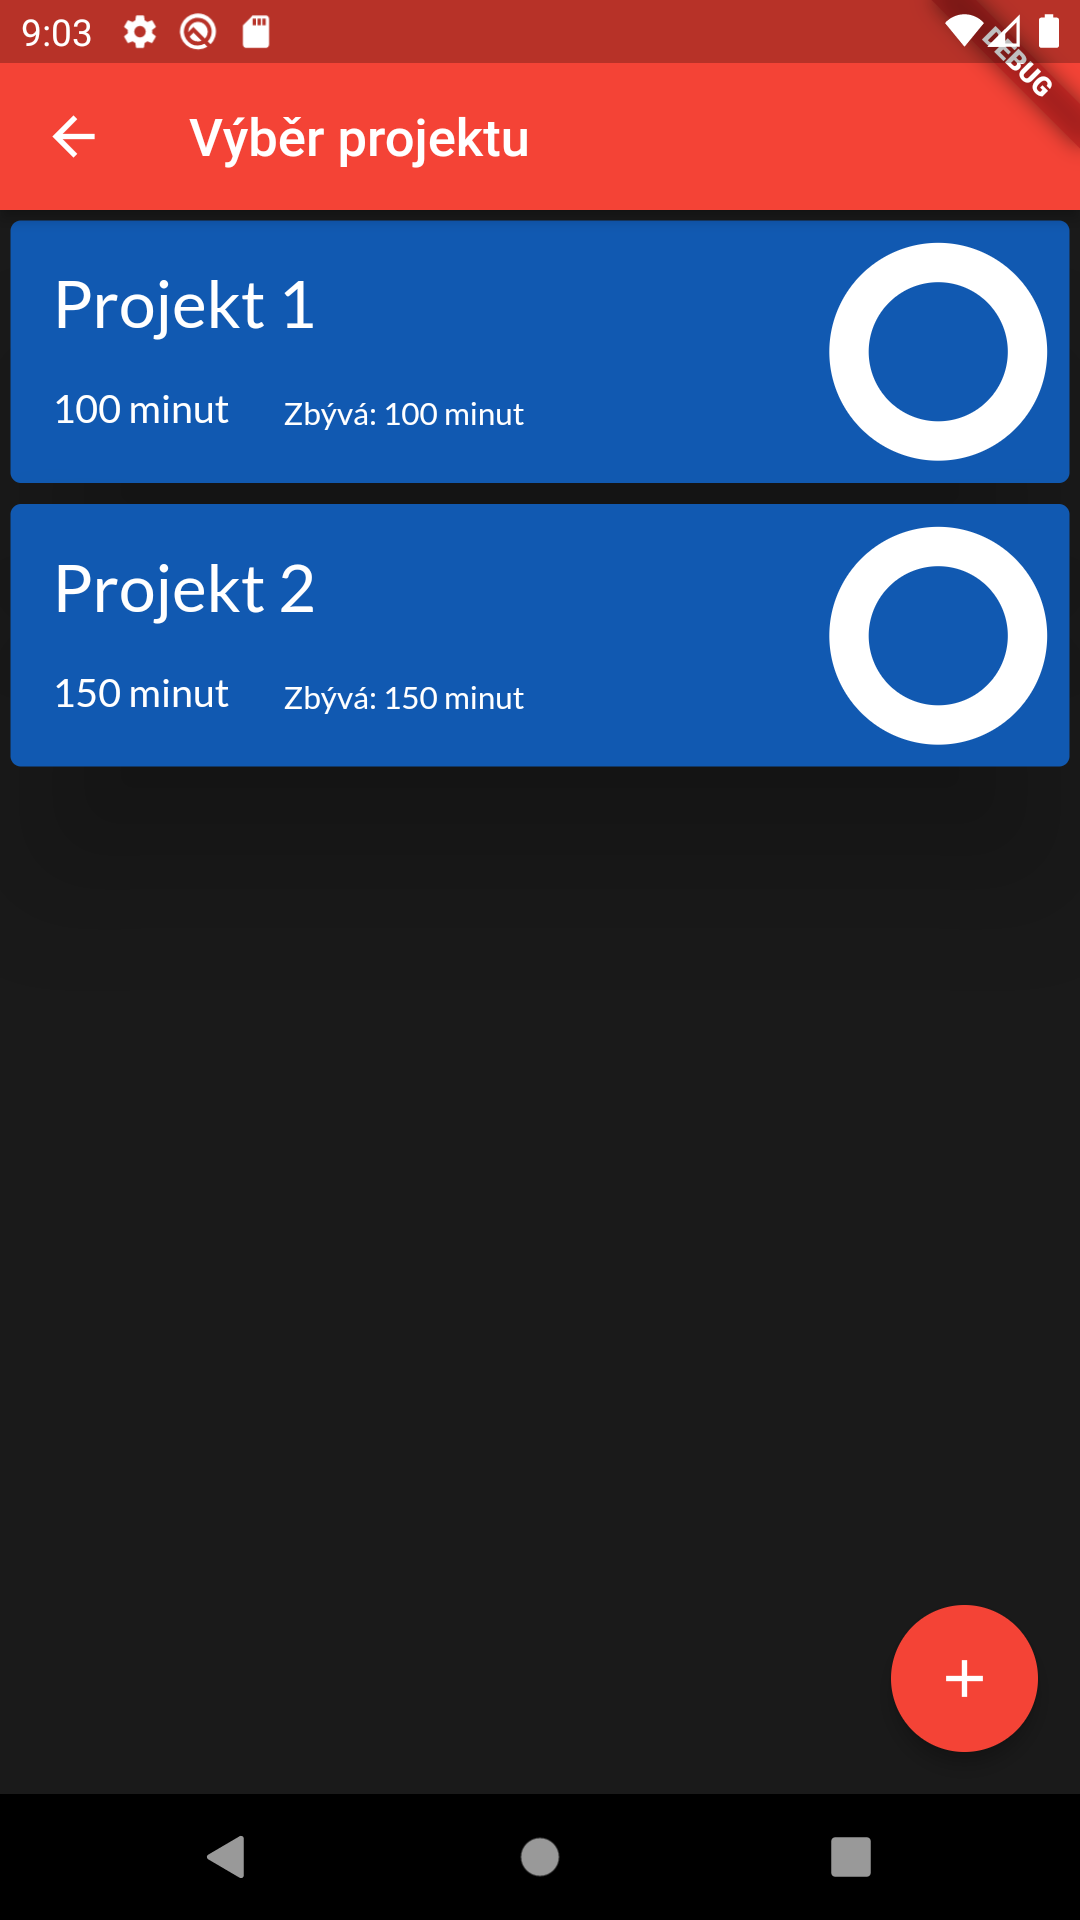
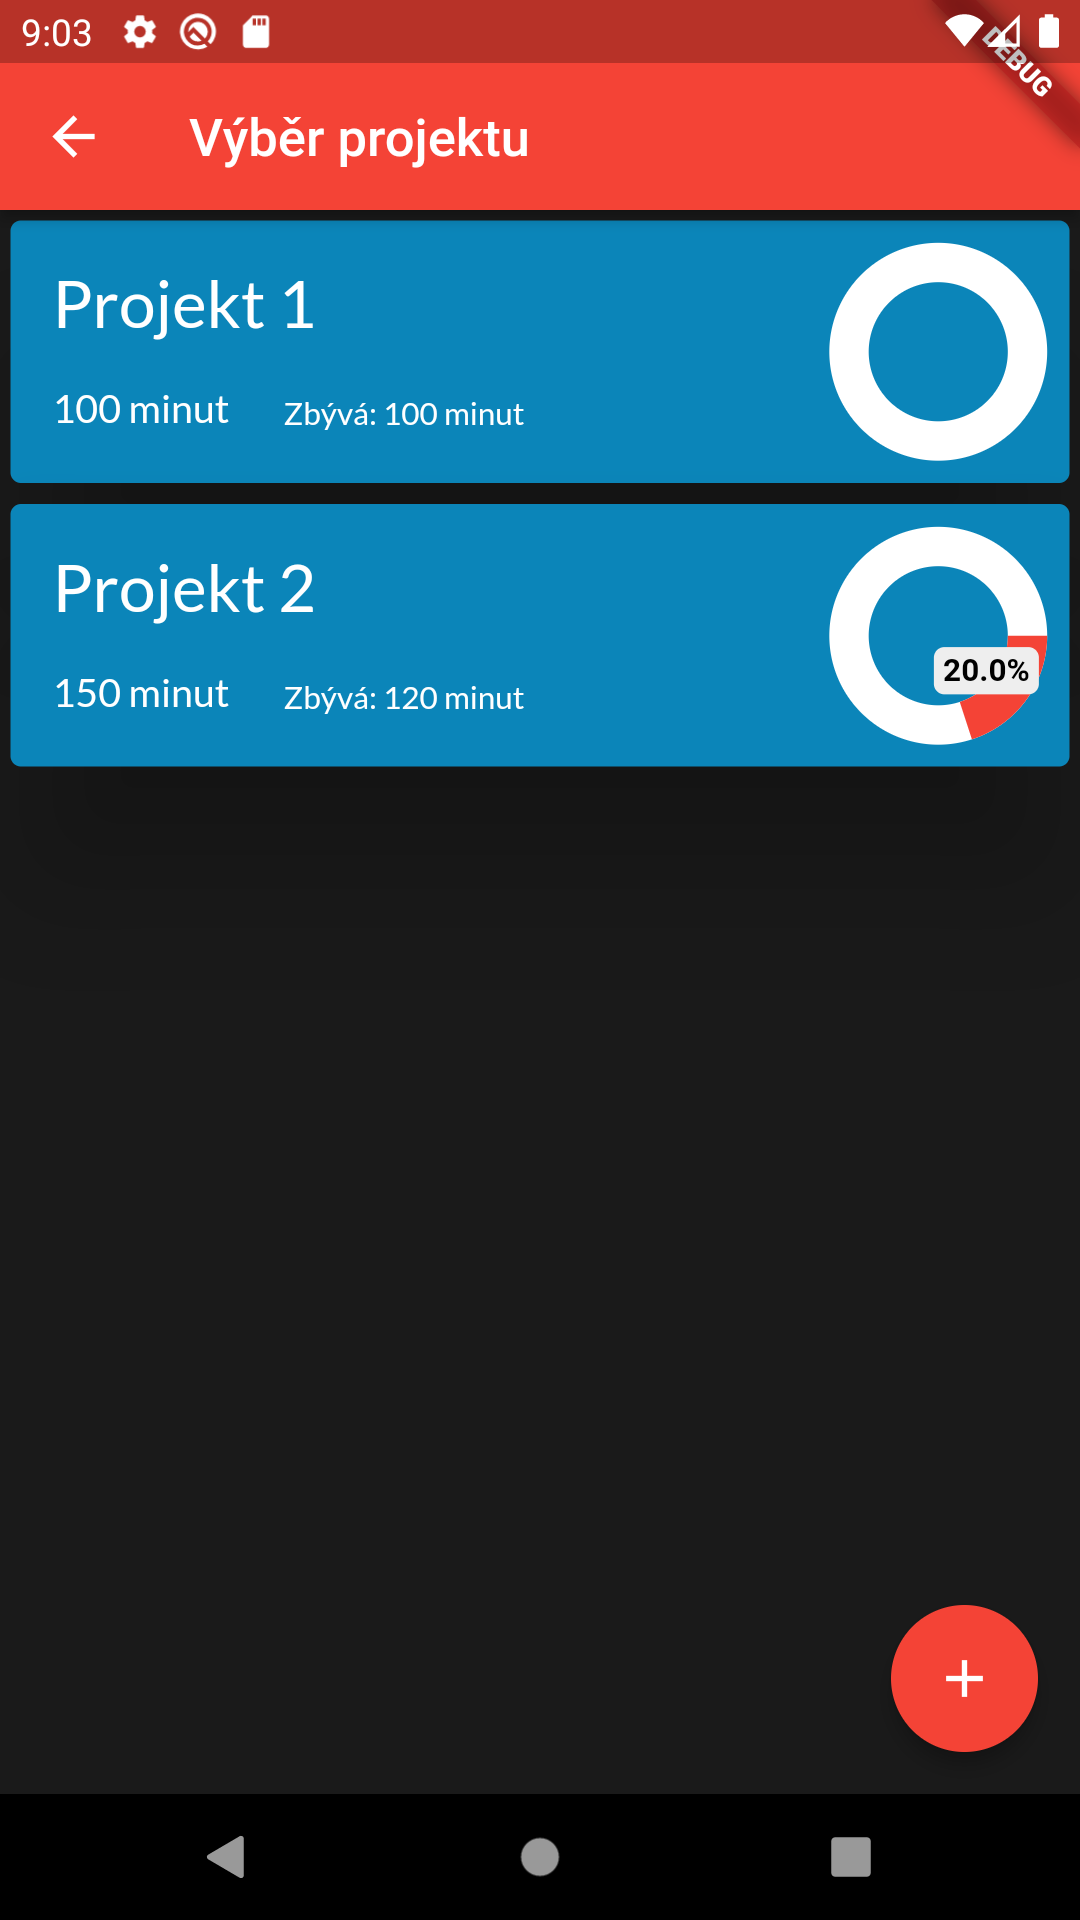
change: color project card

Changed region(s): [[0.0, 0.0938, 1.0, 0.4062]]

diff --git a/test/widget_test.dart b/test/widget_test.dart
@@ -13,7 +13,7 @@ import 'package:pomodoro_countdown/main.dart';
 void main() {
   testWidgets('Counter increments smoke test', (WidgetTester tester) async {
     // Build our app and trigger a frame.
-    await tester.pumpWidget(const MyApp());
+    await tester.pumpWidget(MyApp());
 
     // Verify that our counter starts at 0.
     expect(find.text('0'), findsOneWidget);

diff --git a/lib/view/items/card_project.dart b/lib/view/items/card_project.dart
@@ -58,7 +58,7 @@ class _CardProjectState extends State<CardProject> {
         },
         child: Card(
           elevation: 50,
-          color: const Color.fromARGB(255, 17, 89, 177),
+          color: Color.fromARGB(255, 11, 133, 185),
           child: SizedBox(
             height: 100,
             child: Padding(
